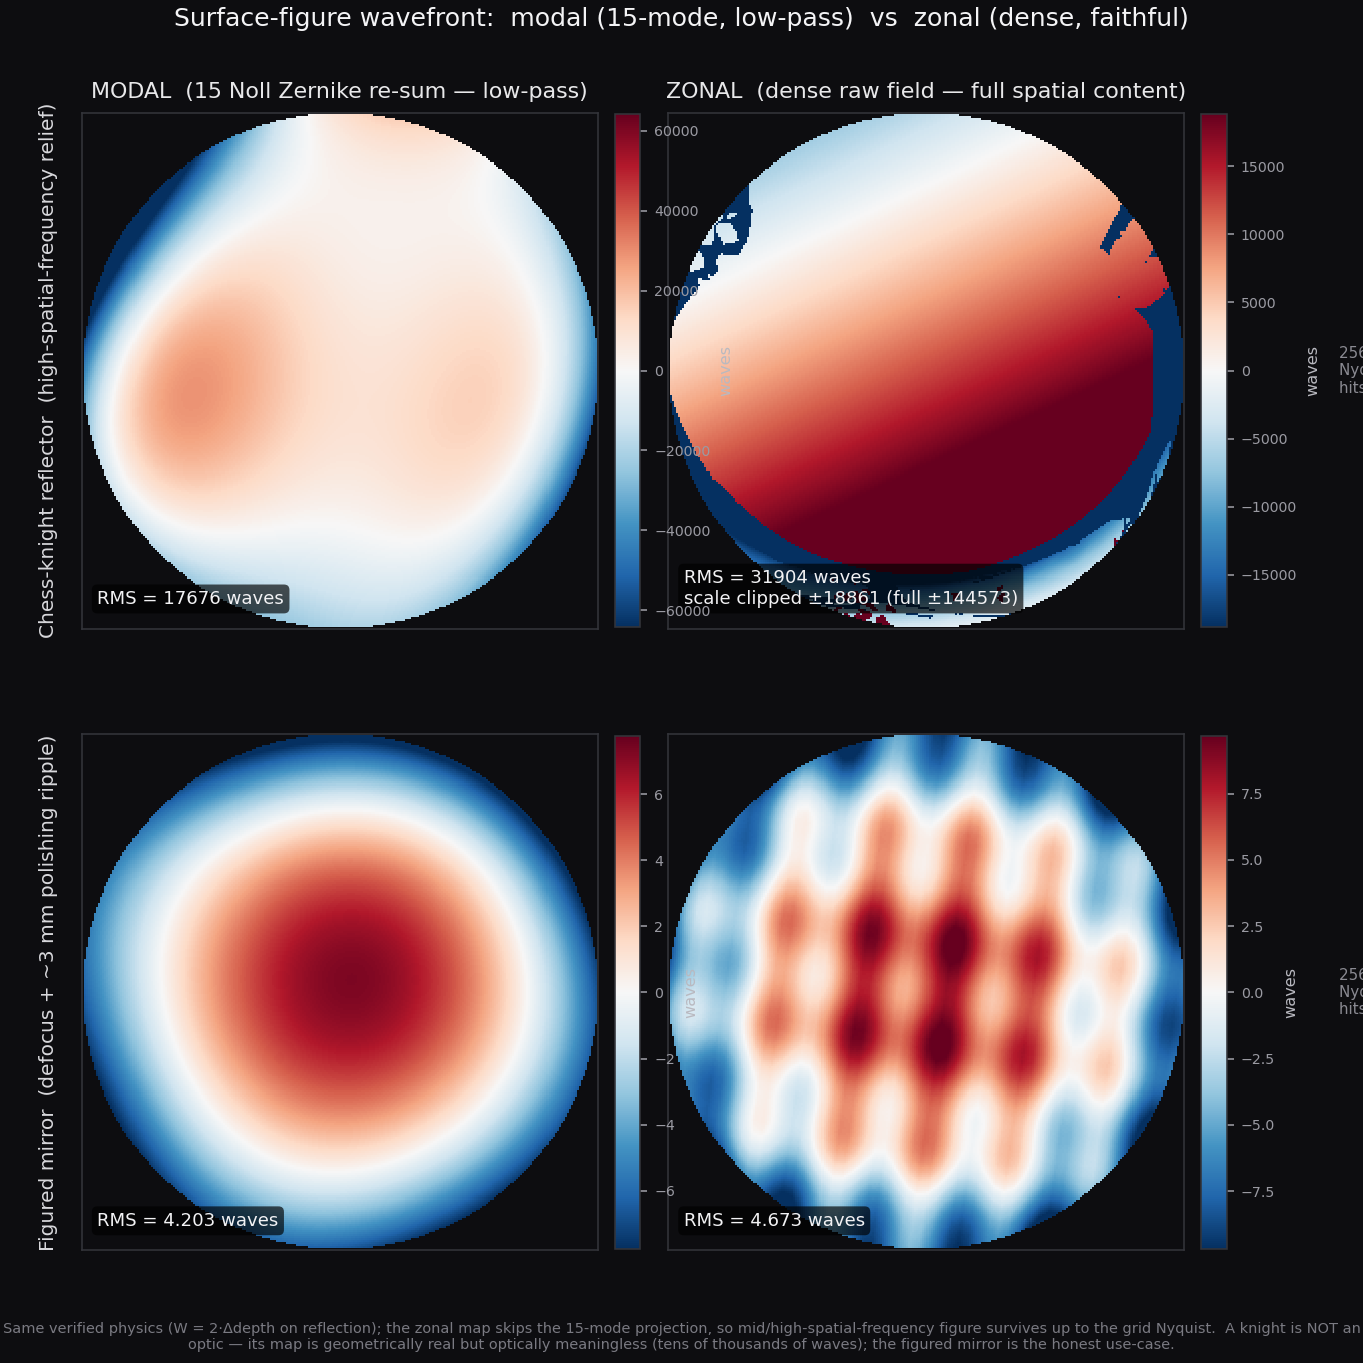
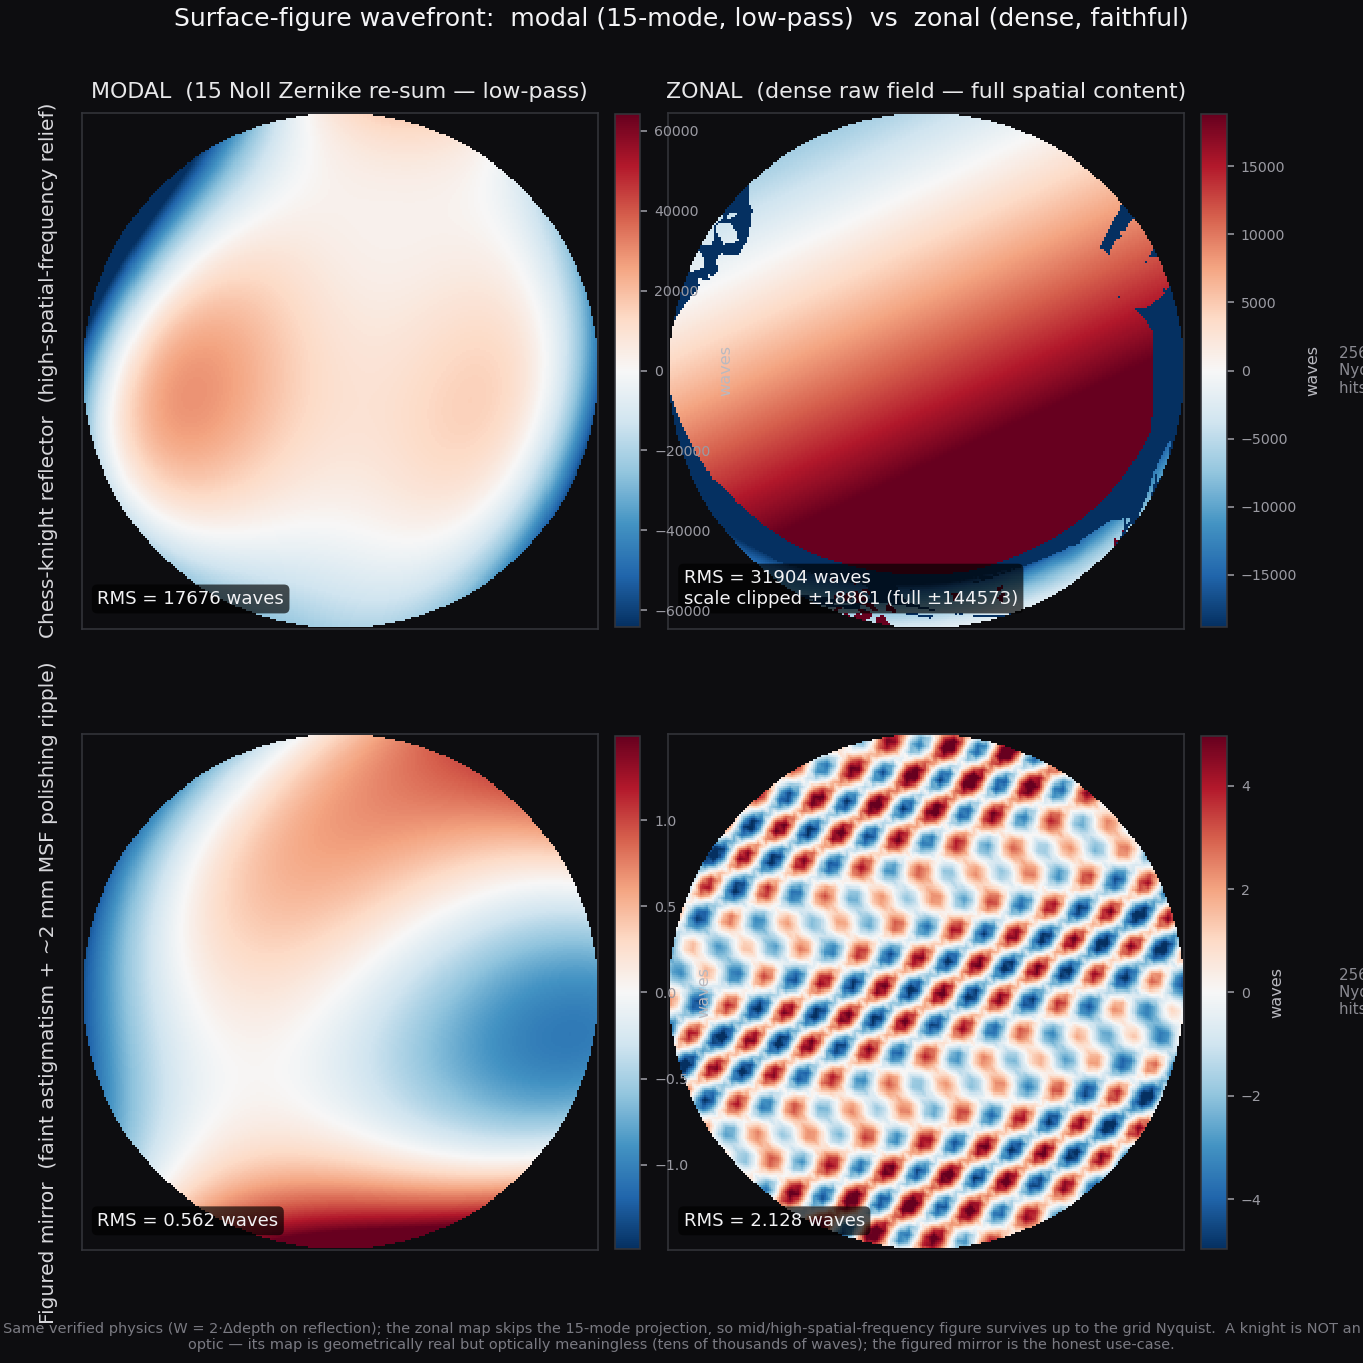
docs(zonal): MSF-dominant figured-mirror demo — stark modal-vs-zonal contrast
Retune the real-optic demo surface from defocus-dominant to mid-spatial-frequency
(MSF) dominant: a faint astigmatism residual + a ~2 mm quasi-periodic polishing ripple
(CNC/MRF tool-mark figure) that 15 Zernikes cannot represent. The modal WFS now reads
only 0.56 waves (the smooth astigmatism — "looks fine") while the zonal sensor render
reveals 2.13 waves of MSF ripple it is blind to (3.8x), so docs/img/zonal-wavefront.png
shows the honest value of zonal at a glance. Demo/figure scripts only — no package code
change (regression unchanged at 314, release zip unchanged).

Changed region(s): [[0.0308, 0.493, 0.4622, 0.9552], [0.493, 0.5238, 0.8936, 0.9244], [0.9244, 0.7087, 0.9552, 0.7395]]

diff --git a/tests/_render_zonal_wavefront.py b/tests/_render_zonal_wavefront.py
@@ -157,17 +157,23 @@ def main():
                           "px": m_zonal["px"], "source": "real Staunton knight OBJ"}
         print("KNIGHT modal RMS=%.3f  zonal RMS=%.1f waves" % (m_mrms, m_zonal["rms_waves"]))
 
-    # (2) a real optic: gentle defocus + a ~3 mm mid-spatial-frequency polishing ripple (lambda-scale)
+    # (2) a real optic, MSF-dominant: a faint low-order residual (astigmatism) the 15-mode WFS happily
+    #     reports + a DOMINANT mid-spatial-frequency polishing ripple (~2 mm quasi-periodic tool marks)
+    #     that 15 Zernikes CANNOT represent. The modal map shows only the smooth astigmatism ("looks fine");
+    #     the zonal sensor render reveals the MSF ripple the modal readout is blind to. lambda-scale figure.
     def real_optic(x, y):
-        return (x * x + y * y) / (2.0 * 9000.0) + 0.0008 * math.sin(x / 0.48) + 0.0004 * math.cos(y / 0.62)
-    omesh = _grid_mesh(real_optic, half=40.0, nx=241, name="RealOpticSurf")
+        astig = 0.00040 * (x * x - y * y) / 90.0
+        msf = (0.00110 * math.sin(x / 0.34) * math.cos(y / 0.40)        # ~2.1 x 2.5 mm cross-hatch
+               + 0.00070 * math.sin((x + y) / 0.30))                    # ~1.9 mm diagonal tool marks
+        return astig + msf
+    omesh = _grid_mesh(real_optic, half=40.0, nx=281, name="RealOpticSurf")
     o_modal, o_zonal, o_mrms = _read_case(omesh, aoi_deg=8.0, waist_um=9000.0, expander=False)
     np.save(os.path.join(OUT, "optic_modal.npy"), o_modal)
     np.save(os.path.join(OUT, "optic_zonal.npy"), o_zonal["field"])
     meta["optic"] = {"modal_rms": o_mrms, "zonal_rms": o_zonal["rms_waves"],
                      "zonal_pv": o_zonal["pv_waves"], "footprint_mm": o_zonal["footprint_mm"],
                      "nyquist_lp_mm": o_zonal["nyquist_lp_mm"], "hit_frac": o_zonal["hit_frac"],
-                     "px": o_zonal["px"], "source": "figured mirror: defocus + 3 mm polishing ripple"}
+                     "px": o_zonal["px"], "source": "figured mirror: faint astigmatism + ~2 mm MSF ripple"}
     print("OPTIC  modal RMS=%.3f  zonal RMS=%.3f waves" % (o_mrms, o_zonal["rms_waves"]))
 
     json.dump(meta, open(os.path.join(OUT, "meta.json"), "w"), indent=2)

diff --git a/tests/_plot_zonal_wavefront.py b/tests/_plot_zonal_wavefront.py
@@ -20,7 +20,7 @@ meta = json.load(open(os.path.join(SRC, "meta.json")))
 rows = []
 if os.path.exists(os.path.join(SRC, "knight_modal.npy")):
     rows.append(("knight", "Chess-knight reflector  (high-spatial-frequency relief)"))
-rows.append(("optic", "Figured mirror  (defocus + ~3 mm polishing ripple)"))
+rows.append(("optic", "Figured mirror  (faint astigmatism + ~2 mm MSF polishing ripple)"))
 
 fig, axes = plt.subplots(len(rows), 2, figsize=(9.4, 4.7 * len(rows)))
 if len(rows) == 1:
